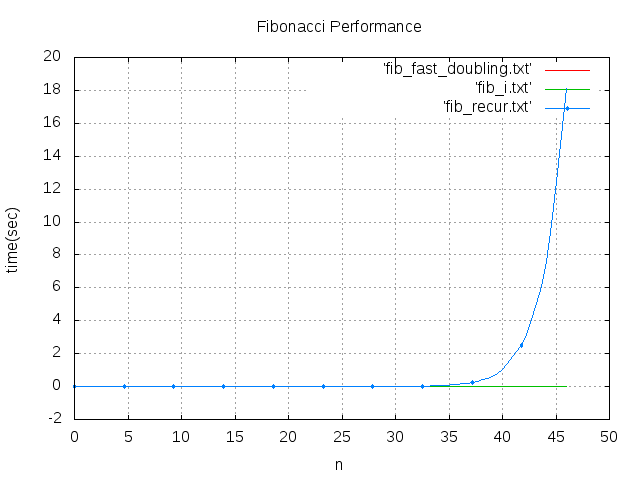
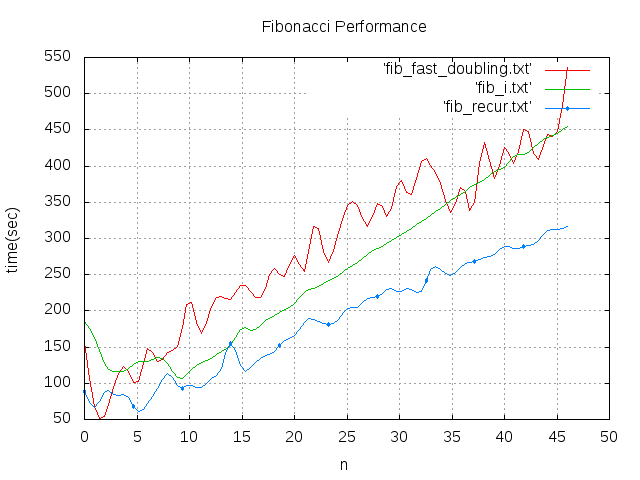
update pure c

diff --git a/fib_pure_c/fib_recur.c b/fib_pure_c/fib_recur.c
@@ -1,14 +1,14 @@
 #include<stdio.h>
 #include<time.h>
 
-int fibonacci(int number){
-	int a = 0;
-	int b = 1;
-	
-	if (number == 0) return 0;
-	if (number == 1) return 1;
 
-	return fibonacci(number-1) + fibonacci(number-2);
+int fib(int n, int x, int y){
+	
+	if (0 == n) return 0;
+	if (1 == n) return 1;
+
+	return fib(n-1, y, x+y);
+
 }
 
 int main(){
@@ -17,14 +17,16 @@ int main(){
 
 		for ( i = 0; i < 47; i++){
 			
-			clock_t start = clock();
-			int result = fibonacci(i);
-			clock_t end = clock();
-			
-			double elapsed_time = (double)(end - start) / CLOCKS_PER_SEC;
+			struct timespec t1, t2;
+			clock_gettime(CLOCK_REALTIME, &t1);
+			int result = fib(i, 0, 1);
+			clock_gettime(CLOCK_REALTIME, &t2);
+
+			long elapsed_time = t2.tv_nsec - t1.tv_nsec;
+	
 			FILE *fptr = fopen("fib_recur.txt", "a");
 			if (fptr != NULL){
-				fprintf(fptr, "%d\t%f\n", i, elapsed_time); 	
+				fprintf(fptr, "%d\t%ld\n", i, elapsed_time); 	
 				fclose(fptr);
  			}
 		}

diff --git a/fib_pure_c/fib_i.c b/fib_pure_c/fib_i.c
@@ -25,20 +25,20 @@ int main(){
 		int i;
 
 		for ( i = 0; i < 47; i++){
+			struct timespec t1, t2;
 			
-			clock_t start = clock();
+			clock_gettime(CLOCK_REALTIME, &t1);
 			int result = fibonacci(i);
-			clock_t end = clock();
+			clock_gettime(CLOCK_REALTIME, &t2);
 			
-			double elapsed_time = (double)(end - start);
+			long elapsed_time = t2.tv_nsec - t1.tv_nsec;
 			FILE *fptr = fopen("fib_i.txt", "a");
-			fprintf(stdout, "%d\t%f\t%d\n", i, elapsed_time, fibonacci(i)); 	
-			/*
+			
+			//fprintf(fptr, "%d\t%ld\t%d\n", i, elapsed_time, fibonacci(i)); 	
 			if (fptr != NULL){
-				fprintf(fptr, "%d\t%f\n", i, elapsed_time); 	
+				fprintf(fptr, "%d\t%ld\n", i, elapsed_time); 	
 				fclose(fptr);
  			}
-			*/
 		}
 	
 		return 0;

diff --git a/fib_pure_c/fib_fast_doubling.c b/fib_pure_c/fib_fast_doubling.c
@@ -30,15 +30,16 @@ int main(){
 		int i;
 
 		for ( i = 0; i < 47; i++){
-			
-			clock_t start = clock();
+			struct timespec t1, t2;
+				
+			clock_gettime(CLOCK_REALTIME, &t1);
 			int result = fibonacci(i);
-			clock_t end = clock();
+			clock_gettime(CLOCK_REALTIME, &t2);
 			
-			double elapsed_time = (double)(end - start) / CLOCKS_PER_SEC;
+			long elapsed_time = t2.tv_nsec - t1.tv_nsec;
 			FILE *fptr = fopen("fib_fast_doubling.txt", "a");
 			if (fptr != NULL){
-				fprintf(fptr, "%d\t%f\n", i, elapsed_time); 	
+				fprintf(fptr, "%d\t%ld\n", i, elapsed_time); 	
 				fclose(fptr);
  			}
 		}

diff --git a/fib_pure_c/test.c b/fib_pure_c/test.c
@@ -1,0 +1,31 @@
+#include<stdio.h>
+#include<time.h>
+
+int fibonacci(int number){
+	int a = 0;
+	int b = 1;
+	
+	if (number == 0) return 0;
+	if (number == 1) return 1;
+	
+	int result = 0;
+	int i;
+	for ( i = 1; i < number; i++){
+		result = a;
+		a = b;
+		result = result + a;
+		b = result;
+	}
+	
+	return result;
+}
+
+int main(){
+	
+		int num = 0;
+		scanf("%d", &num);
+		int result = fibonacci(num);
+		
+		printf("%d\n", result);
+		return 0;
+}
